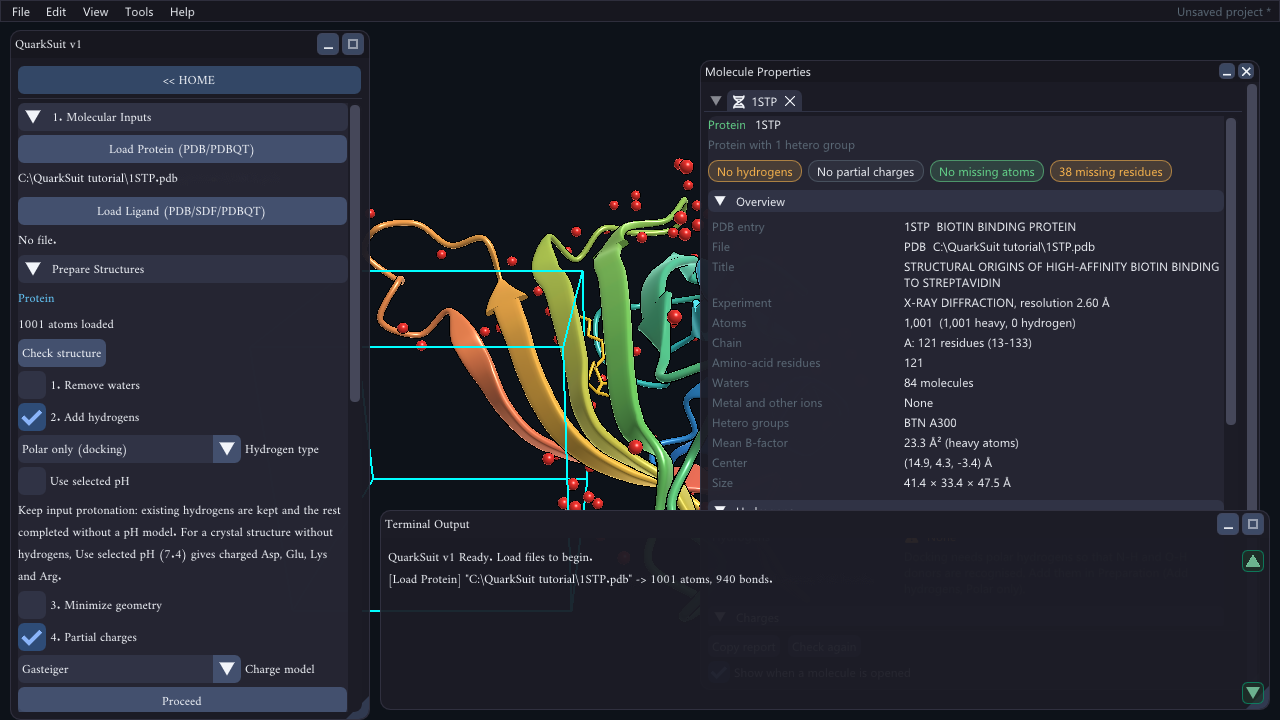
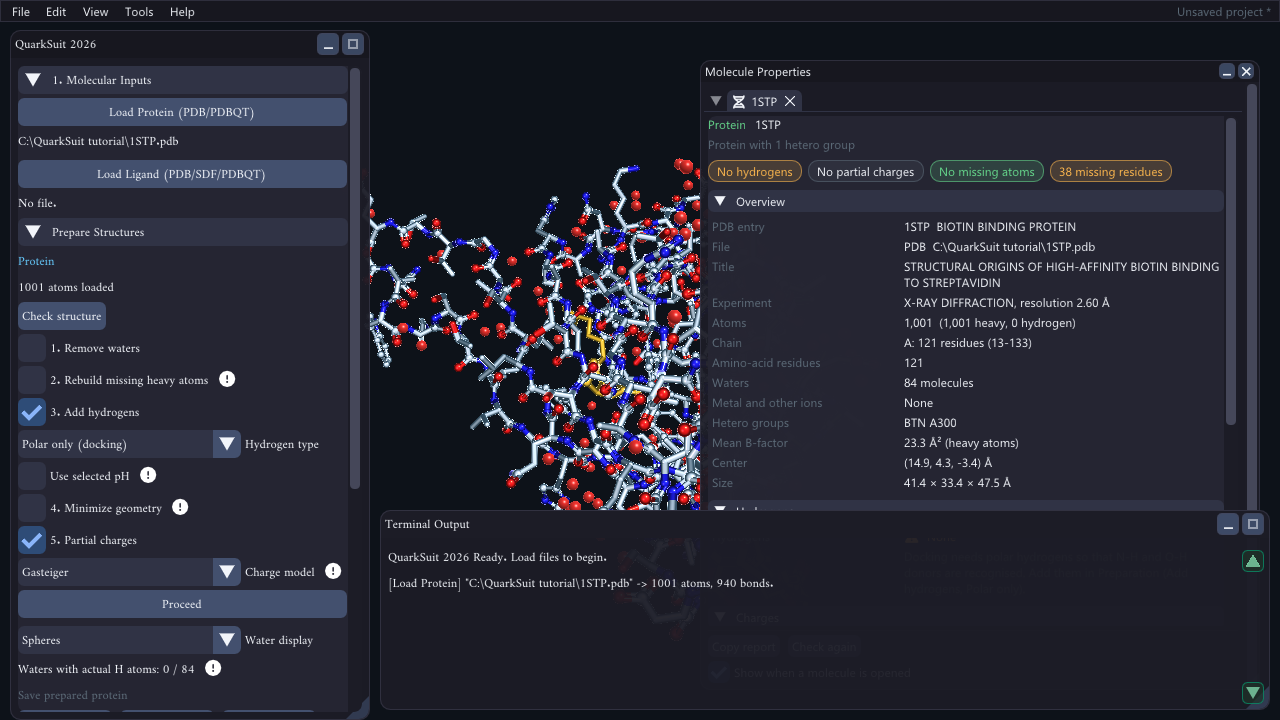
Tutorial: screenshots and text for QuarkSuit 2026
- Every figure retaken with QuarkSuit 2026 in one run of the tutorial steps.
  Redocking again gives -7.75 kcal/mol at 0.67 A, and the imatinib
  minimisation again takes 688 steps from 137.3 to 89.0 kcal/mol.
- Text follows today's interface: protein options 1-5 (with Rebuild missing
  heavy atoms), File > Home, the DOCKING button, Thoroughness and Score
  Tolerance, explanations behind the attention icons, and Rubber Ribbon for
  the docking views.
- The preparation animation shows the whole run up to "Preparation complete"
  and is smaller; the minimisation animation shows the molecule only.
- Result files: the same atoms; the header now reads "Prepared by QuarkSuit".

diff --git a/src/pages/tutorial.js b/src/pages/tutorial.js
@@ -15,7 +15,7 @@ checking the result against the crystal. Streptavidin&ndash;biotin (PDB <a href=
 Weber <i>et al.</i>, <i>Science</i> 243, 85&ndash;88, 1989) is a good first system: the complex is
 tight, the ligand small, and a correct pose is easy to recognise.</p>
 
-<p>Every figure below is a screenshot of QuarkSuit v1 taken during an actual run of these
+<p>Every figure below is a screenshot of QuarkSuit 2026 taken during an actual run of these
 steps. Allow about fifteen minutes.</p>
 
 <div class="toc">
@@ -75,22 +75,24 @@ mistake, the pocket was already filled: the best pose scored only &minus;4.3 kca
 <ol>
   <li><span class="ui">1. Remove waters</span> &ndash; ticked. There is no metal ion here, so
   <span class="ui">Keep waters bound to metal ions</span> makes no difference.</li>
-  <li><span class="ui">2. Add hydrogens</span> &ndash; ticked, <span class="ui">Hydrogen type</span>
+  <li><span class="ui">2. Rebuild missing heavy atoms</span> &ndash; not needed: the report found no missing
+  side-chain atoms.</li>
+  <li><span class="ui">3. Add hydrogens</span> &ndash; ticked, <span class="ui">Hydrogen type</span>
   <span class="ui">Polar only (docking)</span>.</li>
   <li><span class="ui">Use selected pH</span> &ndash; ticked, pH 7.40. Asp and Glu become charged,
   Lys and Arg protonated, and the chain ends charged.</li>
-  <li><span class="ui">3. Minimize geometry</span> &ndash; not needed for a crystal structure.</li>
-  <li><span class="ui">4. Partial charges</span> &ndash; ticked, <span class="ui">Charge model</span> <span class="ui">Gasteiger</span>.</li>
+  <li><span class="ui">4. Minimize geometry</span> &ndash; not needed for a crystal structure.</li>
+  <li><span class="ui">5. Partial charges</span> &ndash; ticked, <span class="ui">Charge model</span> <span class="ui">Gasteiger</span>.</li>
 </ol>
-${fig(4, '03-prep-options.png', 'Preparation options for the receptor. The explanation under each option changes with the choice.')}
+${fig(4, '03-prep-options.png', 'Preparation options for the receptor. Pointing at the attention icon beside an option explains it.')}
 <p>Click <span class="ui">Proceed</span> at the end of the options. A progress window follows the
 steps (figure 5); the work runs in the background and <span class="ui">Cancel</span> stops it
 without changing the protein.</p>
 <figure id="fig5">
-  <img src="tutorial/prep-progress.gif" loading="lazy" width="396" height="304" alt="Protein preparation progress window">
+  <img src="tutorial/prep-progress.gif" loading="lazy" width="396" height="352" alt="Protein preparation progress window">
   <figcaption><b>Figure 5.</b> The protein preparation window during the run (recorded, shown at real speed).</figcaption>
 </figure>
-<p>When it finishes, the report updates (figure 6): <b>Polar hydrogens only</b>, <b>Gasteiger
+<p>When it finishes, the report updates (figure 6): <b>Polar hydrogens only</b>, <b>Partial
 charges</b>, 213 polar hydrogens and no waters. Save the receptor with
 <span class="ui">Save prepared protein &rsaquo; PDBQT</span> as <code>1stp_receptor.pdbqt</code>.
 PDBQT keeps the partial charges and AutoDock atom types; PDB would not.</p>
@@ -111,24 +113,25 @@ as <code>btn_crystal.pdb</code>. It is the experimental position the docked pose
 <span class="ui">1. Add hydrogens</span> with <span class="ui">Polar only (docking)</span>,
 <span class="ui">Use selected pH</span> at 7.40, and <span class="ui">3. Assign Gasteiger charges</span>.
 Click <span class="ui">Proceed</span>.</p>
-${fig(8, '07-ligand-prepared.png', 'The ligand after preparation. Biotin\'s carboxylic acid is ionised at pH 7.4, so the ligand has a net charge of -1 and two polar hydrogens, on the ureido nitrogens.')}
+${fig(8, '07-ligand-prepared.png', 'The ligand after preparation, shown beside the protein. Biotin\'s carboxylic acid is ionised at pH 7.4, so the ligand has a net charge of -1 and two polar hydrogens, on the ureido nitrogens. Glows mark what changed: green an added hydrogen, orange a removed one, white-yellow a changed charge.')}
 <p>Save it with <span class="ui">Save prepared ligand &rsaquo; PDBQT</span> as <code>btn_ligand.pdbqt</code>.
 The PDBQT file also holds the torsion tree: biotin has 5 rotatable bonds.</p>
 
 <h2 id="t-dock">7. Setting up the docking</h2>
-<p>Click <span class="ui">&laquo; HOME</span>. QuarkSuit asks whether to close the preparation
-session; you have saved both files, so answer <span class="ui">Yes</span>. Then click
-<span class="ui">NEW DOCKING PROJECT</span>. Load <code>1stp_receptor.pdbqt</code> with
+<p>Choose <span class="ui">File &rsaquo; Home</span>. QuarkSuit asks whether to close the current
+project; you have saved both files, so answer <span class="ui">Yes</span>. Then click
+<span class="ui">DOCKING</span>. Load <code>1stp_receptor.pdbqt</code> with
 <span class="ui">Load Protein</span> and <code>btn_ligand.pdbqt</code> with
-<span class="ui">Load Ligand</span>.</p>
+<span class="ui">Load Ligand</span>. To see the ligand and the box clearly, choose
+<span class="ui">View &rsaquo; Protein Style &rsaquo; Rubber Ribbon (Cartoon)</span>.</p>
 <p>The search box goes over the binding site. The ligand is still in its crystal position, so
 its centre is the right place: the Molecule Properties window of the ligand gives it as
 (11.3, 1.4, &minus;10.5)&nbsp;&Aring;. In <span class="ui">2. Grid Box</span> enter this as
 <span class="ui">Center</span> and 20&nbsp;&Aring; for each <span class="ui">Size</span>.
 Double-click a field to type a value.</p>
 ${fig(9, '08-docking-setup.png', 'Receptor, ligand and the 20 &times; 20 &times; 20 &Aring; box. The ligand lies inside the box.')}
-<p>Leave <span class="ui">4. Docking Configuration</span> at its defaults: Exhaustiveness 8,
-Num Poses 9, Energy Range 3.0&nbsp;kcal/mol. Click <span class="ui">START DOCKING</span>. The panel
+<p>Leave <span class="ui">4. Docking Configuration</span> at its defaults: Thoroughness 8,
+Num Poses 9, Score Tolerance 3.0&nbsp;kcal/mol. Click <span class="ui">START DOCKING</span>. The panel
 is locked during the run, and a progress window shows the stage (figure 10).</p>
 ${fig(10, '09-docking-running.png', 'Docking in progress. The terminal reports the number of rotatable bonds and, later, how the energy grids were built.')}
 
